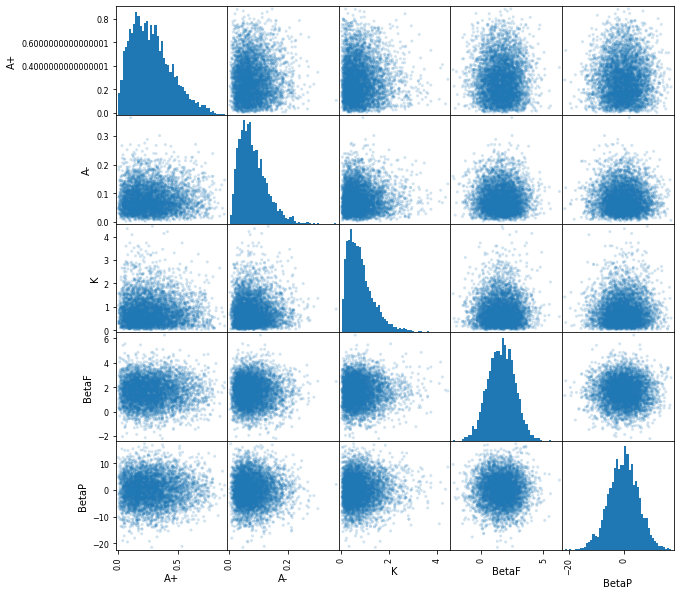
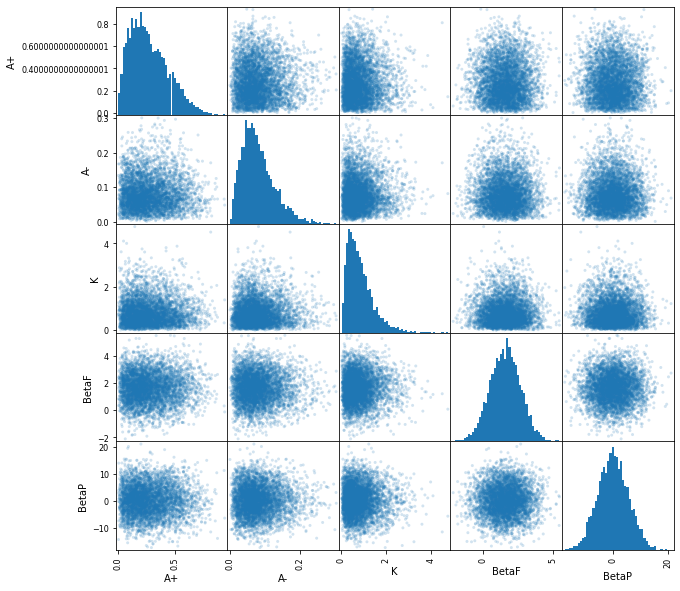
deploy: 83679ff2239fe976b88e2bfa6cdbcecd954e703f

Changed region(s): [[0.1235, 0.0, 0.9882, 1.0], [0.0, 0.0305, 0.1853, 0.1523], [0.0926, 0.8223, 0.1235, 0.8528]]

diff --git a/synthetic_data.html b/synthetic_data.html
@@ -507,43 +507,43 @@ Here we generate 5000 fake data points based on the entire dataset.</p>
   <tbody>
     <tr>
       <th>0</th>
-      <td>0.177465</td>
-      <td>0.043186</td>
-      <td>0.216377</td>
-      <td>3.040943</td>
-      <td>-0.456860</td>
+      <td>0.227911</td>
+      <td>0.115554</td>
+      <td>1.707967</td>
+      <td>1.173162</td>
+      <td>-12.478572</td>
     </tr>
     <tr>
       <th>1</th>
-      <td>0.050664</td>
-      <td>0.118800</td>
-      <td>1.002377</td>
-      <td>0.649443</td>
-      <td>2.858897</td>
+      <td>0.075196</td>
+      <td>0.121740</td>
+      <td>1.256373</td>
+      <td>1.775510</td>
+      <td>-3.718412</td>
     </tr>
     <tr>
       <th>2</th>
-      <td>0.320249</td>
-      <td>0.054432</td>
-      <td>0.117494</td>
-      <td>1.855921</td>
-      <td>-0.295728</td>
+      <td>0.120966</td>
+      <td>0.064706</td>
+      <td>0.160554</td>
+      <td>1.818128</td>
+      <td>1.088247</td>
     </tr>
     <tr>
       <th>3</th>
-      <td>0.212556</td>
-      <td>0.062879</td>
-      <td>0.572976</td>
-      <td>1.915120</td>
-      <td>1.173174</td>
+      <td>0.250161</td>
+      <td>0.170665</td>
+      <td>2.426511</td>
+      <td>3.328632</td>
+      <td>3.929356</td>
     </tr>
     <tr>
       <th>4</th>
-      <td>0.051397</td>
-      <td>0.046208</td>
-      <td>0.613644</td>
-      <td>2.372521</td>
-      <td>5.771460</td>
+      <td>0.217432</td>
+      <td>0.044932</td>
+      <td>0.170430</td>
+      <td>2.909836</td>
+      <td>0.614961</td>
     </tr>
   </tbody>
 </table>
@@ -993,104 +993,104 @@ Finally the <span class="math notranslate nohighlight">\(\beta_P\)</span> parame
   </thead>
   <tbody>
     <tr>
-      <th>1216</th>
-      <td>0.255649</td>
-      <td>0.088269</td>
-      <td>0.820359</td>
-      <td>0.705160</td>
-      <td>-2.769301</td>
+      <th>1904</th>
+      <td>0.140479</td>
+      <td>0.112878</td>
+      <td>0.603330</td>
+      <td>0.632468</td>
+      <td>-1.360894</td>
       <td>young</td>
       <td>2</td>
     </tr>
     <tr>
-      <th>980</th>
-      <td>0.503947</td>
-      <td>0.103687</td>
-      <td>0.845253</td>
-      <td>2.106785</td>
-      <td>-6.854571</td>
+      <th>3374</th>
+      <td>0.017179</td>
+      <td>0.062540</td>
+      <td>1.070354</td>
+      <td>3.527746</td>
+      <td>-12.293052</td>
       <td>old - type A</td>
       <td>0</td>
     </tr>
     <tr>
-      <th>1407</th>
-      <td>0.118949</td>
-      <td>0.087304</td>
-      <td>1.326204</td>
-      <td>1.287892</td>
-      <td>2.385837</td>
-      <td>old - type A</td>
-      <td>0</td>
-    </tr>
-    <tr>
-      <th>269</th>
-      <td>0.238215</td>
-      <td>0.051195</td>
-      <td>1.211387</td>
-      <td>1.615683</td>
-      <td>-1.410798</td>
+      <th>5401</th>
+      <td>0.060951</td>
+      <td>0.029223</td>
+      <td>0.441780</td>
+      <td>1.943659</td>
+      <td>4.049444</td>
       <td>young</td>
       <td>2</td>
     </tr>
     <tr>
-      <th>1163</th>
-      <td>0.305167</td>
-      <td>0.199493</td>
-      <td>0.770172</td>
-      <td>1.812252</td>
-      <td>3.806128</td>
+      <th>4458</th>
+      <td>0.178414</td>
+      <td>0.084280</td>
+      <td>1.277937</td>
+      <td>2.445875</td>
+      <td>-2.473125</td>
       <td>young</td>
       <td>2</td>
     </tr>
     <tr>
-      <th>3492</th>
-      <td>0.108853</td>
-      <td>0.028937</td>
-      <td>0.141925</td>
-      <td>3.431377</td>
-      <td>-5.321083</td>
-      <td>old - type A</td>
-      <td>0</td>
-    </tr>
-    <tr>
-      <th>4671</th>
-      <td>0.161570</td>
-      <td>0.105723</td>
-      <td>0.323170</td>
-      <td>1.068629</td>
-      <td>-3.247956</td>
+      <th>4764</th>
+      <td>0.349365</td>
+      <td>0.036323</td>
+      <td>1.755568</td>
+      <td>4.540674</td>
+      <td>-0.450140</td>
       <td>young</td>
       <td>2</td>
     </tr>
     <tr>
-      <th>1581</th>
-      <td>0.207446</td>
-      <td>0.180178</td>
-      <td>0.623805</td>
-      <td>2.410641</td>
-      <td>0.282302</td>
+      <th>7694</th>
+      <td>0.134875</td>
+      <td>0.109999</td>
+      <td>0.533321</td>
+      <td>1.593879</td>
+      <td>-1.136153</td>
       <td>young</td>
       <td>2</td>
     </tr>
     <tr>
-      <th>3358</th>
-      <td>0.131737</td>
-      <td>0.075505</td>
-      <td>0.695006</td>
-      <td>1.371695</td>
-      <td>-2.163333</td>
+      <th>8936</th>
+      <td>0.429102</td>
+      <td>0.087520</td>
+      <td>0.181590</td>
+      <td>1.669007</td>
+      <td>-2.400796</td>
       <td>young</td>
       <td>2</td>
     </tr>
     <tr>
-      <th>2950</th>
-      <td>0.800278</td>
-      <td>0.156862</td>
-      <td>1.966511</td>
-      <td>1.763844</td>
-      <td>-3.628704</td>
-      <td>old - type A</td>
-      <td>0</td>
+      <th>1986</th>
+      <td>0.108300</td>
+      <td>0.107189</td>
+      <td>0.387203</td>
+      <td>2.047554</td>
+      <td>-3.519595</td>
+      <td>young</td>
+      <td>2</td>
+    </tr>
+    <tr>
+      <th>5194</th>
+      <td>0.091881</td>
+      <td>0.021359</td>
+      <td>1.028345</td>
+      <td>3.010482</td>
+      <td>-4.483753</td>
+      <td>young</td>
+      <td>2</td>
+    </tr>
+    <tr>
+      <th>1355</th>
+      <td>0.196939</td>
+      <td>0.025528</td>
+      <td>0.682759</td>
+      <td>3.273356</td>
+      <td>1.865040</td>
+      <td>young</td>
+      <td>2</td>
     </tr>
   </tbody>
 </table>
